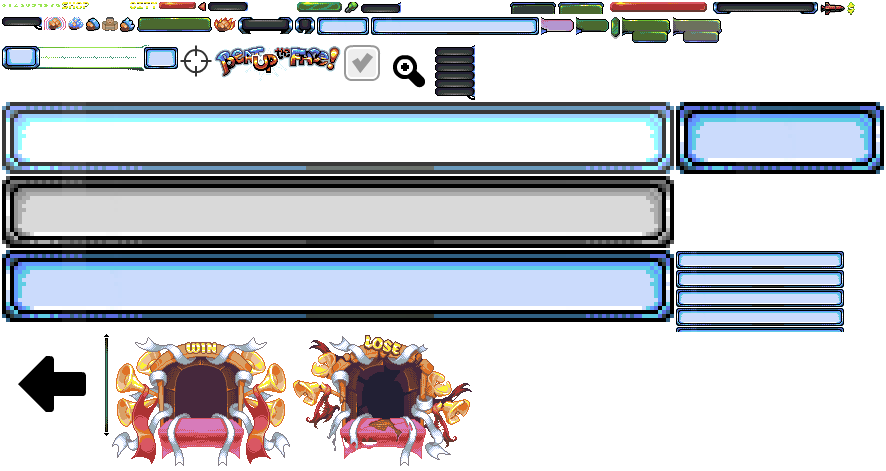
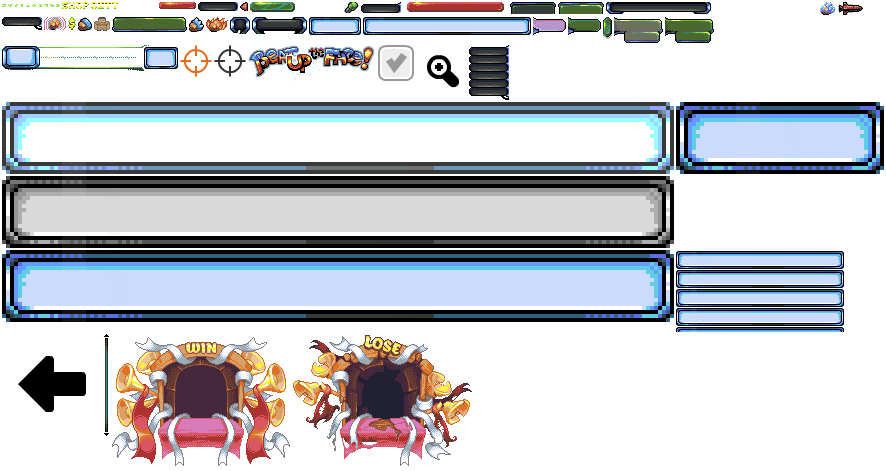
add check if setting image is new, otherwise dont save; fix json crash for recipes

Changed region(s): [[0.0609, 0.0, 0.579, 0.2081], [0.579, 0.0, 0.9752, 0.0892], [0.4571, 0.0, 0.579, 0.0297]]

diff --git a/Classes/NuMenu.cpp b/Classes/NuMenu.cpp
@@ -62,6 +62,12 @@ void NuItem::set_touch_ended_callback(std::function<void(void)> callback)
 
 void NuItem::set_image(std::string path)
 {
+    //same loaded image, do nothing
+    if (this->item_icon->getRenderFile().file == path)
+    {
+        return;
+    };
+
     this->item_icon->loadTexture(path, ui::TextureResType::PLIST);
 
     ui::Scale9Sprite* sprite = dynamic_cast<ui::Scale9Sprite*>(this->item_icon->getVirtualRenderer());
@@ -352,6 +358,14 @@ void BuildingNuMenu::init_items()
         CCLOG("Targetting building");
         GameLogic::getInstance()->buildup->target_building = this->building;
     });
+    auto update_img_cb = [this, target_item](float dt){
+        if (GameLogic::getInstance()->buildup->target_building == this->building) {
+            target_item->set_image("crossair_red.png");
+        } else {
+            target_item->set_image("crossair_black.png");
+        };
+    };
+    target_item->schedule(update_img_cb, update_delay, "image_update");
 
     for (auto recipe : building->data->get_all_recipes())
     {

diff --git a/Classes/StaticData.cpp b/Classes/StaticData.cpp
@@ -60,6 +60,11 @@ vsRecipe BuildingData::get_all_recipes()
     auto jsonDoc = FileIO::open_json(this->_filename);
     auto body = &jsonDoc["buildings"];
     auto building_info = &(*body)[this->building_name.c_str()];
+
+    if (!building_info->HasMember("recipes"))
+    {
+        return vsRecipe();
+    }
     auto recipe_info = &(*building_info)["recipes"];
 
     vsRecipe recipes;
